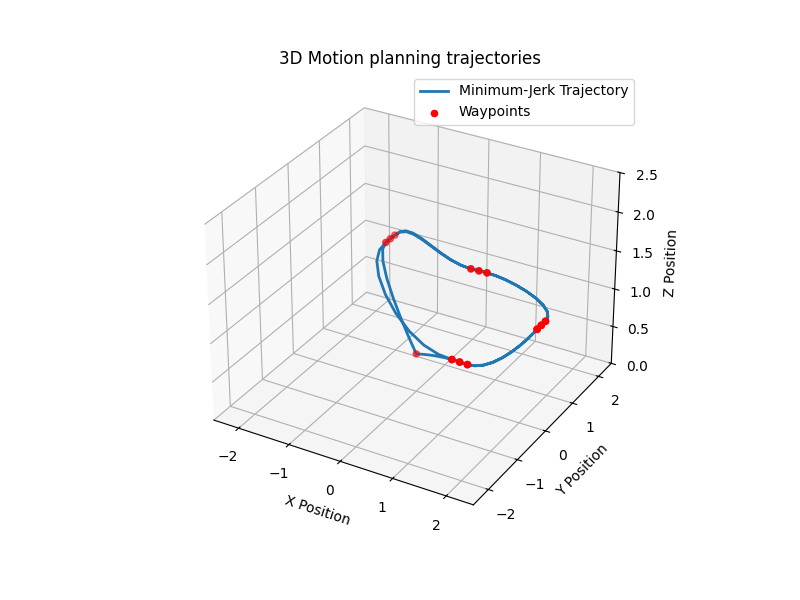
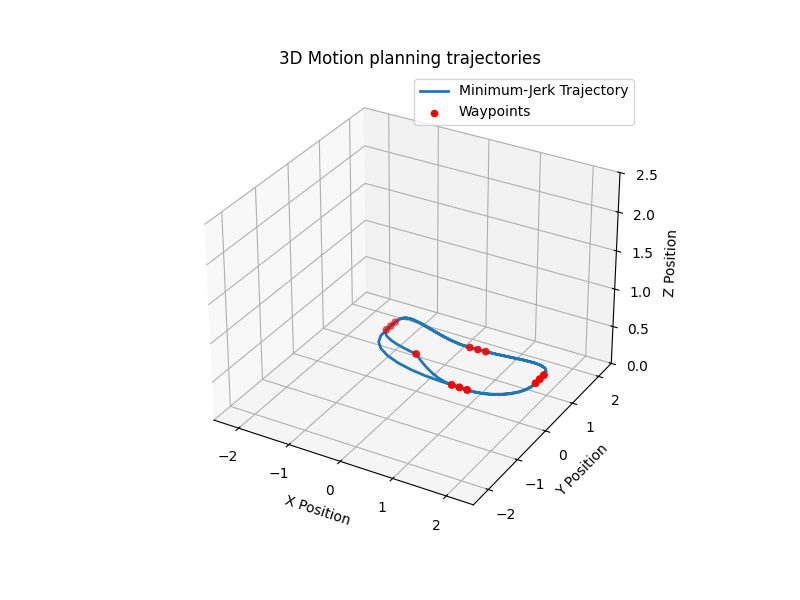
First tests with the motion planner in real life

Changed region(s): [[0.4688, 0.36, 0.6875, 0.66], [0.6562, 0.48, 0.6875, 0.57], [0.5938, 0.45, 0.6562, 0.48]]

diff --git a/main.py b/main.py
@@ -39,15 +39,15 @@ STATE = {
     "LANDING": 2,
 }
 GATE_THRESHOLD = 0.05                           # Threshold for the position check, in meters
-DT = 0.01                                       # Time step for the main loop, in seconds
+DT = 0.0001                                       # Time step for the main loop, in seconds
 LANDING_COORD = [0, 0, 0, 0]                    # Landing position of the drone, in [m, m, m, rad]
 TAKE_OFF_COORD = [0, 0, 0.5, 0]                 # Take off position of the drone, in [m, m, m, rad]
-GATES = [[1.16, -0.57, 0.83, np.deg2rad(-2)],   # [x, y, z, yaw] of each true gate, in [m, m, m, rad]
-         [2.20, 0.33, 1.20, np.deg2rad(90)],
-         [0.84, 0.65, 1.53, np.deg2rad(-177)],
-         [-0.85, 0.59, 1.65, np.deg2rad(-90)]]
+GATES = [[1.16, -0.57, 0.50, np.deg2rad(-2)],   # [x, y, z, yaw] of each true gate, in [m, m, m, rad]
+         [2.20, 0.33, 0.50, np.deg2rad(90)],
+         [0.84, 0.65, 0.50, np.deg2rad(-177)],
+         [-0.85, 0.59, 0.50, np.deg2rad(-90)]]
 OFFSET_GATE = 0.15                              # Offset to the leading and trailing gate, in meters
-RACING_VELOCITY = 0.3                           # Velocity goal during the racing, in m/s
+RACING_VELOCITY = 1.6                           # Velocity goal during the racing, in m/s
 
 
 class LoggingExample:
@@ -444,8 +444,8 @@ class MotionPlanner3D():
         ax.legend()
         
         plt.savefig("plot_trajectory_with_yaw.png")
-        plt.show()
-        #plt.close()
+        #plt.show()
+        plt.close()
 
 
 def emergency_stop_callback(le):
@@ -635,7 +635,7 @@ if __name__ == "__main__":
         elif state == STATE["RACING"]:
             control_command, timer, index_current_setpoint = trajectory_tracking(timer, index_current_setpoint, setpoints, time_setpoints)
             print(f"Control command: {control_command}")
-            cf.commander.send_position_setpoint(control_command[0], control_command[1], control_command[2], 0)
+            cf.commander.send_position_setpoint(control_command[0], control_command[1], control_command[2], np.rad2deg(control_command[3]))
             print("Racing...")
 
         elif state == STATE["LANDING"]:
@@ -649,5 +649,6 @@ if __name__ == "__main__":
 
         # Sleep to respect the desired loop time
         time_end = time.time()
+        print(f"Time taken for loop: {time_end - time_start:.4f} seconds")
         if time_end - time_start < DT:
             time.sleep(DT - (time_end - time_start))
